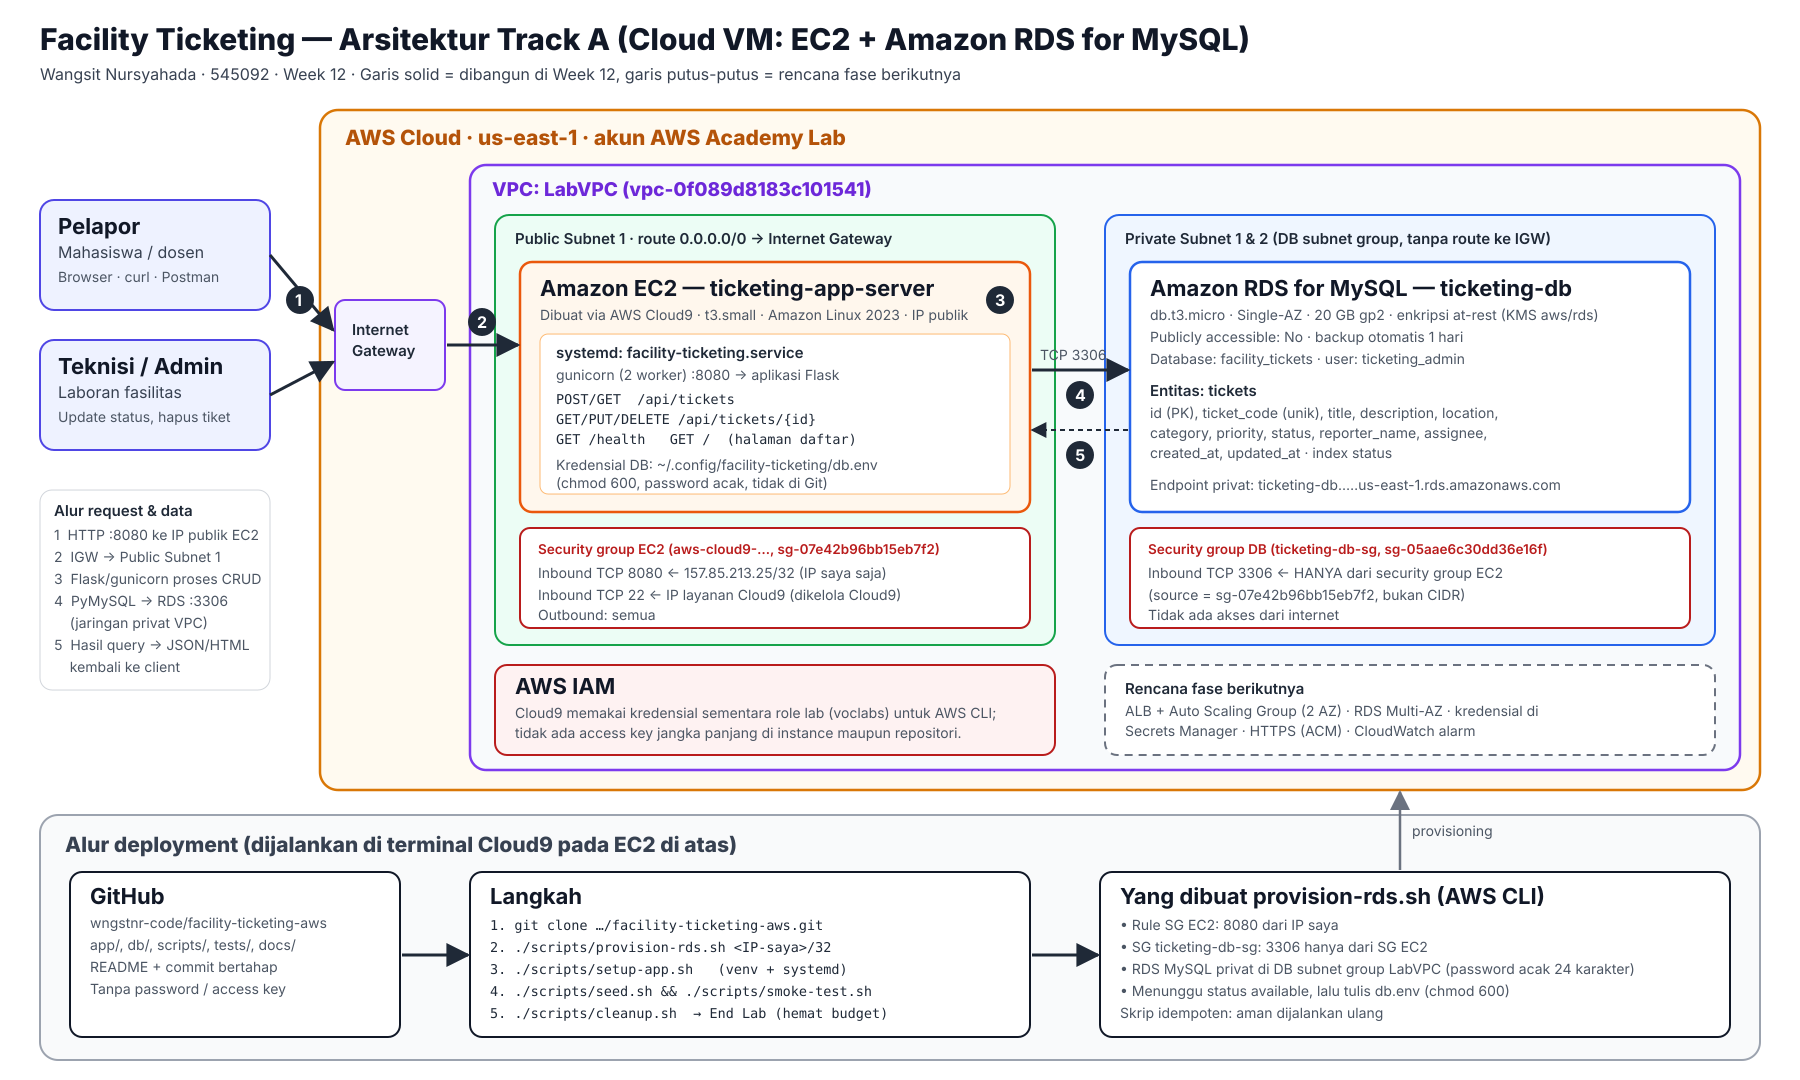
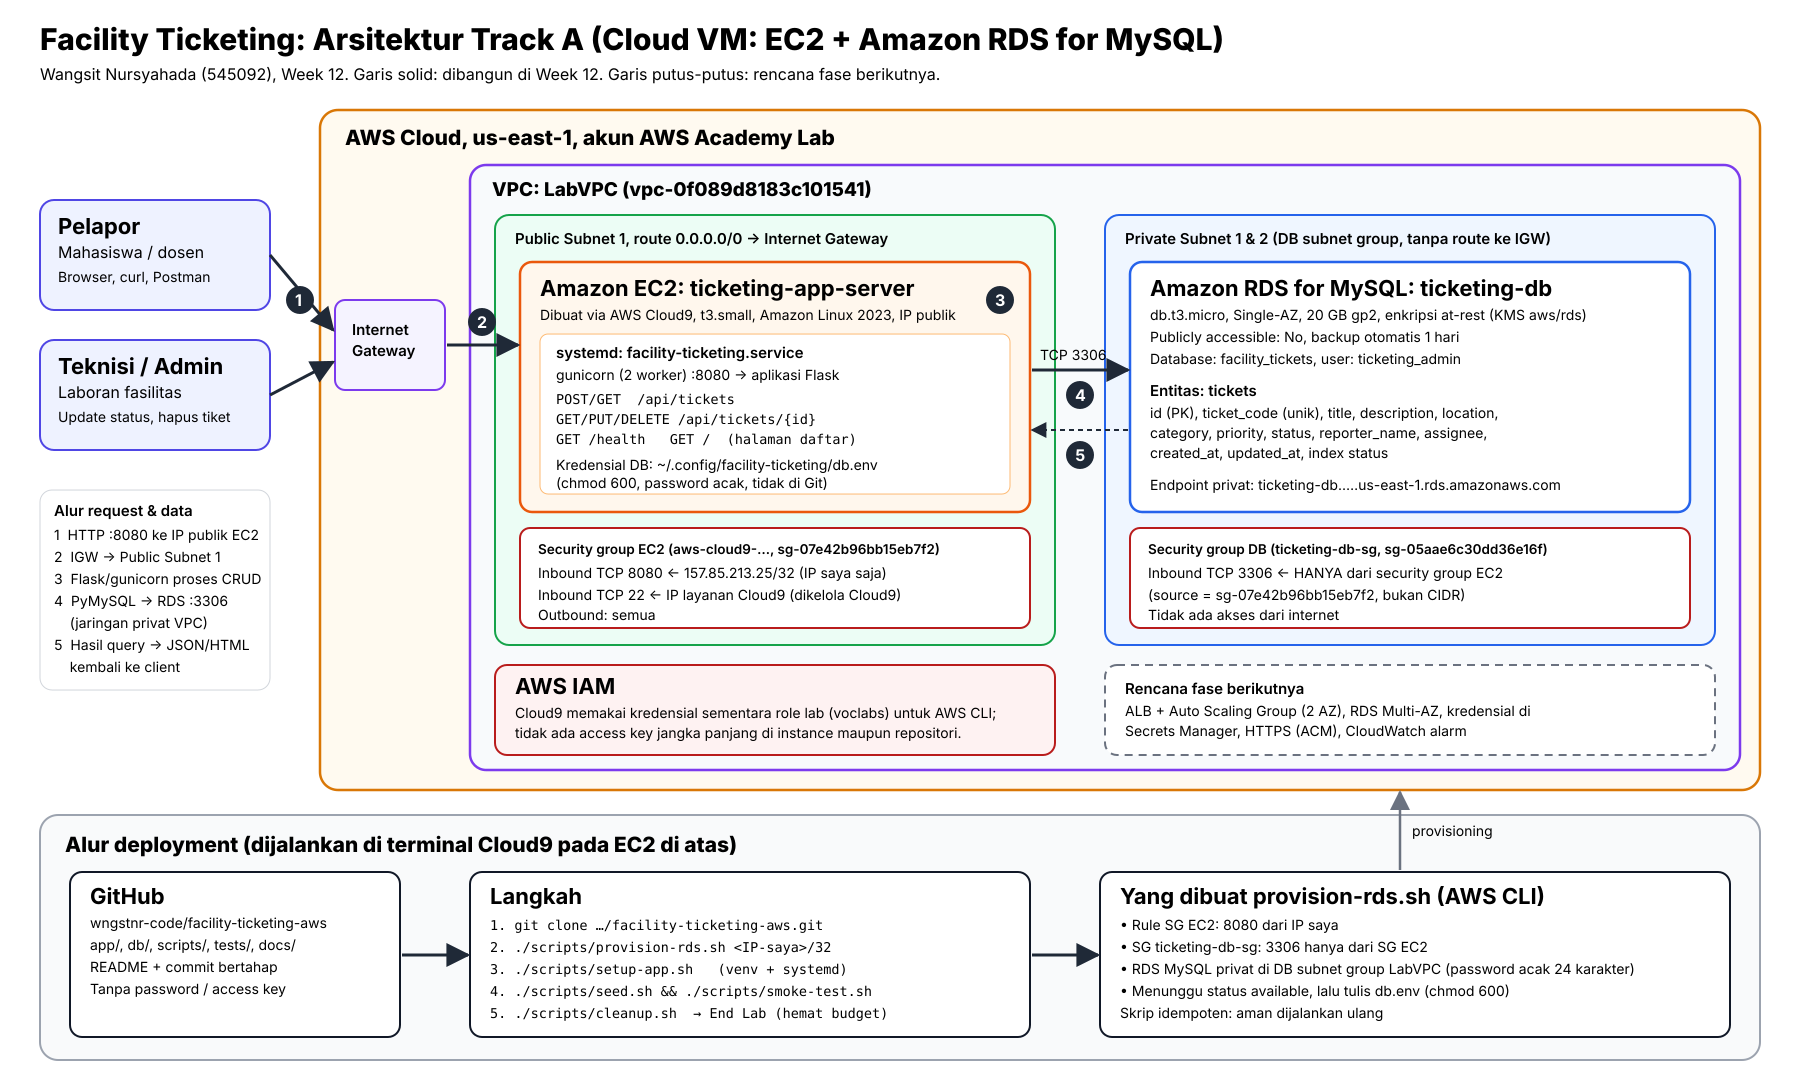
docs: diagram teks hitam dan rapikan tanda baca

diff --git a/app/app.py b/app/app.py
@@ -1,4 +1,4 @@
-"""Facility Ticketing — REST API CRUD (Flask) di EC2, data di Amazon RDS for MySQL.
+"""Facility Ticketing: REST API CRUD (Flask) di EC2, data di Amazon RDS for MySQL.
 
 Endpoint:
   POST   /api/tickets          Create  (201)
@@ -225,14 +225,14 @@ h1{margin:0}small{color:#555}table{border-collapse:collapse;width:100%;margin-to
 th,td{border:1px solid #ddd;padding:6px 8px;text-align:left;font-size:14px}th{background:#eef2ff}
 .s-open{color:#b45309}.s-in_progress{color:#1d4ed8}.s-resolved,.s-closed{color:#15803d}</style></head>
 <body><h1>Facility Ticketing</h1>
-<small>Laporan kerusakan fasilitas kampus · EC2 + Amazon RDS for MySQL · DB: {{ db_host }}</small>
+<small>Laporan kerusakan fasilitas kampus, EC2 + Amazon RDS for MySQL, DB: {{ db_host }}</small>
 <table><tr><th>ID</th><th>Kode</th><th>Judul</th><th>Lokasi</th><th>Kategori</th><th>Prioritas</th>
 <th>Status</th><th>Pelapor</th><th>Teknisi</th><th>Dibuat</th></tr>
 {% for t in rows %}<tr><td>{{t.id}}</td><td>{{t.ticket_code}}</td><td>{{t.title}}</td><td>{{t.location}}</td>
 <td>{{t.category}}</td><td>{{t.priority}}</td><td class="s-{{t.status}}">{{t.status}}</td>
 <td>{{t.reporter_name}}</td><td>{{t.assignee or '-'}}</td><td>{{t.created_at}}</td></tr>
 {% else %}<tr><td colspan="10">Belum ada tiket.</td></tr>{% endfor %}</table>
-<p><small>API: <code>/api/tickets</code> · Health: <code>/health</code></small></p></body></html>"""
+<p><small>API: <code>/api/tickets</code>, Health: <code>/health</code></small></p></body></html>"""
 
 
 app = create_app()

diff --git a/docs/deployment-plan.md b/docs/deployment-plan.md
@@ -5,7 +5,7 @@
 - Akses: lab hanya mengizinkan EC2 dibuat lewat **AWS Cloud9**. Pembuatan DynamoDB, CloudShell, dan `ec2:RunInstances` langsung ditolak, sehingga dipilih Track A.
 - IAM: Cloud9 memakai kredensial sementara role lab (`voclabs`) untuk AWS CLI. Tidak ada access key jangka panjang.
 
-## Fase 1 — Week 12 (selesai)
+## Fase 1: Week 12 (selesai)
 | Langkah | Perintah / aksi | Hasil |
 |---|---|---|
 | 1 | Konsol Cloud9 → *Create environment*: `ticketing-app-server`, t3.small, Amazon Linux 2023, SSH, LabVPC, Public Subnet1 | Instance EC2 dengan IP publik |
@@ -18,12 +18,12 @@
 
 Perkiraan biaya fase 1 (on-demand us-east-1): EC2 t3.small ≈ $0,021/jam (Cloud9 hibernasi otomatis setelah 30 menit idle) dan RDS db.t3.micro ≈ $0,017/jam + 20 GB gp2 ≈ $2,3/bulan. Untuk sesi lab 2–3 jam totalnya < $0,20.
 
-## Fase 2 — Ketersediaan & keamanan
+## Fase 2: Ketersediaan & keamanan
 - Kredensial DB dipindah ke AWS Secrets Manager dan dibaca aplikasi lewat instance profile (bukan file `db.env`).
 - RDS Multi-AZ dan backup retention 7 hari.
 - Nginx/ALB dengan HTTPS (ACM), port 8080 tidak lagi dibuka langsung.
 
-## Fase 3 — Skalabilitas & operasional
+## Fase 3: Skalabilitas & operasional
 - AMI/Launch Template + Auto Scaling Group di 2 AZ di belakang Application Load Balancer.
 - CloudWatch Agent untuk log gunicorn dan alarm CPU/5xx/koneksi DB.
 - CI/CD: GitHub Actions menjalankan pytest terhadap MySQL service container, lalu deploy ke EC2 (CodeDeploy).
